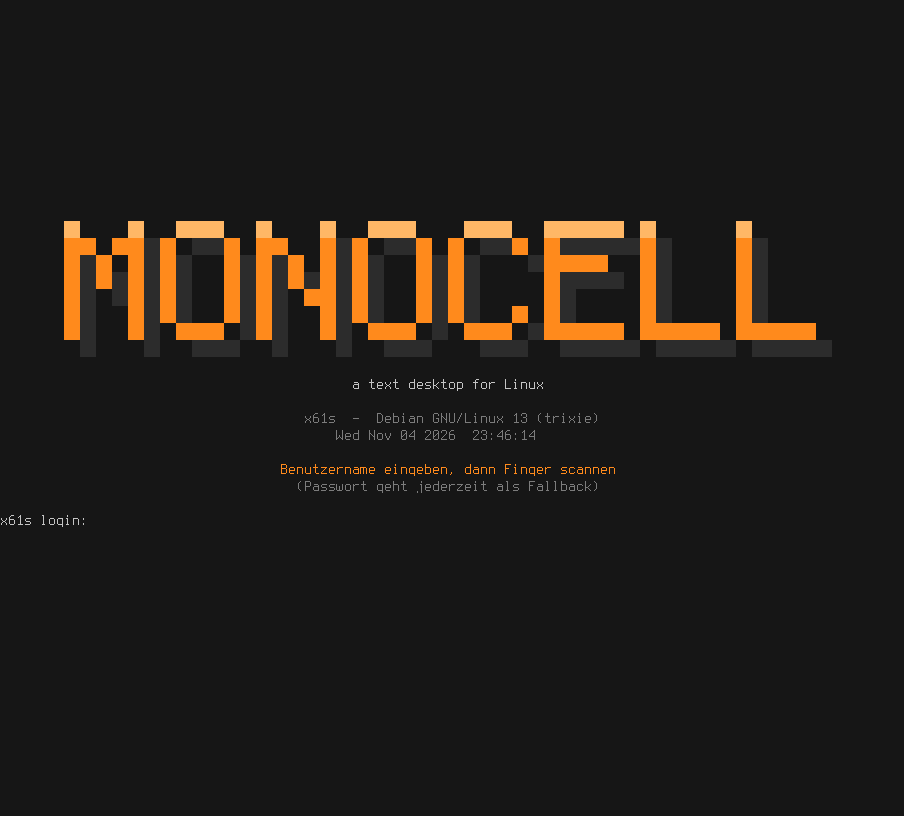
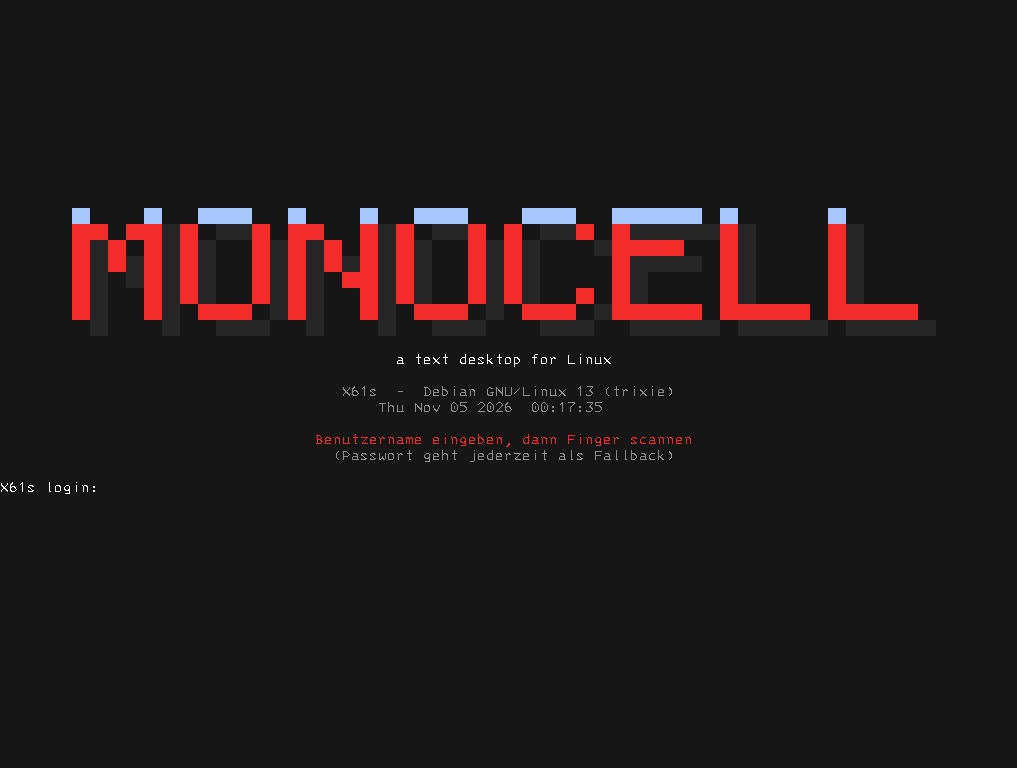
screenshots: real console captures; snap renders PSF fonts
tools/snap.py can now draw the emulated screen with the actual console font
(--psf Lat15-3270.psf.gz) and the VT palette instead of a TrueType font, so the
captures match the X61s pixel for pixel. The README gets a console section with
the start menu, the writer page, the file search and the login screen from the
X61s (113x48, IBM 3270 theme); writer.png and login.png are these captures now.

Changed region(s): [[0.0619, 0.25, 0.8982, 0.4375], [0.3097, 0.4688, 0.6814, 0.625], [0.0, 0.625, 0.0929, 0.6562]]

diff --git a/README.md b/README.md
@@ -19,15 +19,17 @@ Hardware (getestet gegen ein ThinkPad X61s mit 1024×768).
 |---|---|
 | ![Maps im Grafikmodus](screenshots/maps.png) | ![Bild im Grafikmodus](screenshots/viewer-gfx.png) |
 
-**Writer und Login-Screen:**
-
-| | |
-|---|---|
-| ![Writer mit Seite, grosser Schrift und Bild](screenshots/writer.png) | ![Login-Screen](screenshots/login.png) |
-
 *Screenshots aus dem Demo-Home, 120–160 Spalten (die beiden Grafikmodus-Bilder sind
 Abbilder des Framebuffers; das Motiv ist „The Blue Marble", NASA, gemeinfrei). Die
 Fensterrahmen skalieren mit dem Terminal; alles hier ist echte Ausgabe, keine Mockups.*
+
+**Auf der Konsole (X61s, IBM-3270-Font, 113×48):** echte Konsolenausgabe, gerendert mit
+dem PSF-Font und der Theme-Palette (`tools/snap.py --psf`):
+
+| | |
+|---|---|
+| ![Startmenü auf der Konsole](screenshots/console-menu.png) | ![Writer auf der Konsole](screenshots/writer.png) |
+| ![Dateisuche](screenshots/console-search.png) | ![Login-Screen](screenshots/login.png) |
 
 **Text-Screenshot:** `Alt+S` speichert zwei Dateien in `~/monocell-shots/`:
 `…md` mit dem Bild als reinem Text (lesbar in Kate, GitHub und jedem Editor) und
